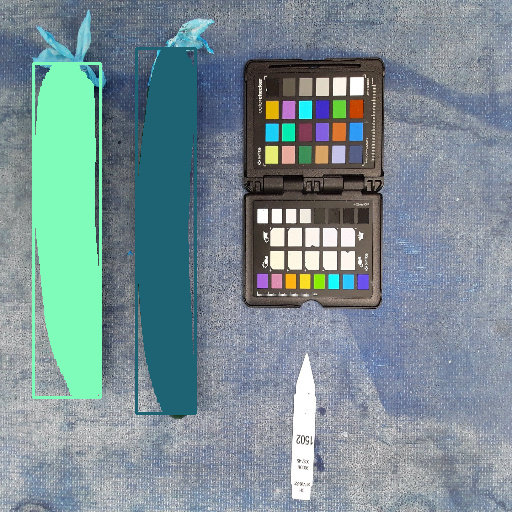
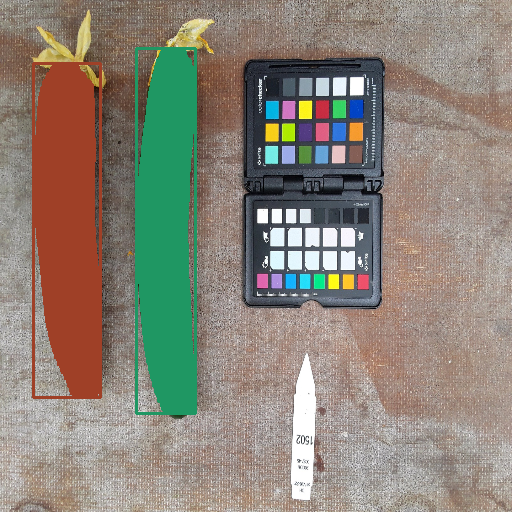
updated onnx inference

diff --git a/onnx_inference.py b/onnx_inference.py
@@ -67,4 +67,4 @@ def vis_masks(img, masks, boxes,scores,mask_threshold=0.2, box_threshold=0.5):
 
 
 visimg=vis_masks(org_img.copy(), onnx_msks, onnx_bbox, onnx_scores)
-cv2.imwrite(f"onnx.png",visimg)
+cv2.imwrite(f"onnx.png",visimg[...,::-1])
